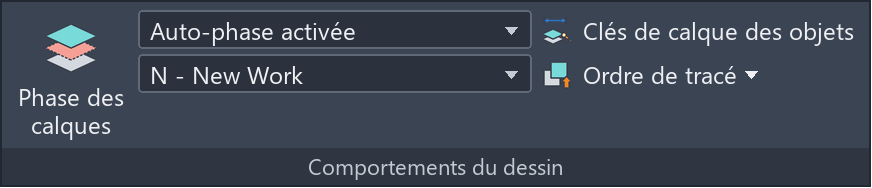
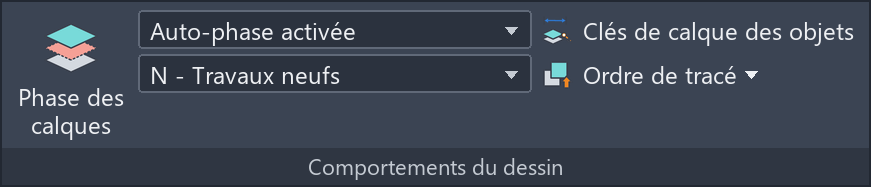
Add the French descriptions of the phases to Phase.csv
A Description.fr column after Description (the Lisp side reads the
columns by position and keeps the English ones), UTF-8 with a BOM. The
docs pictures and pages show the French phases.

Changed region(s): [[0.2167, 0.3457, 0.4025, 0.4521]]

diff --git a/Contents/Modules/Dynalisp/Docs/Layer/Dyl-LayerPhase.htm b/Contents/Modules/Dynalisp/Docs/Layer/Dyl-LayerPhase.htm
@@ -38,7 +38,7 @@
 </table>
 </div>
 <h2>Program Description</h2>
-<p>A phased layer ends with a dash and a phase code: <span class="fixw">A-Wall-Full-E</span> (existing to remain), <span class="fixw">A-Wall-Full-D</span> (existing to demolish), <span class="fixw">A-Wall-Full-N</span> (new work), <span class="fixw">A-Wall-Full-F</span> (future work)... The codes and their descriptions are read from <span class="fixw">Modules\Dynalisp\Res\AEC\Standard\Phase.csv</span>; the phase is the status field of the layer names (see <a href="../Conventions/LayerNaming.htm#status">Layer Naming</a>).</p>
+<p>A phased layer ends with a dash and a phase code: <span class="fixw">A-Wall-Full-E</span> (existing to remain), <span class="fixw">A-Wall-Full-D</span> (existing to demolish), <span class="fixw">A-Wall-Full-N</span> (new work), <span class="fixw">A-Wall-Full-F</span> (future work)... The codes and their descriptions are read from <span class="fixw">Modules\Dynalisp\Res\AEC\Standard\Phase.csv</span> (its <span class="fixw">Description.fr</span> column gives the French descriptions of the ribbon when DynALisp is in French, see <a href="../Plugins/Ribbon.htm">Ribbon</a>); the phase is the status field of the layer names (see <a href="../Conventions/LayerNaming.htm#status">Layer Naming</a>).</p>
 <p>Each drawing has an <strong>active phase</strong>, saved in the drawing. It is shown in the status bar (<span class="fixw">Phase: N - New Work [Auto]</span>) and switched in one command with the <span class="fixw">PH-*</span> aliases. Switching the phase also moves the current layer to the new phase (<span class="fixw">A-Wall-Full-E</span> becomes <span class="fixw">A-Wall-Full-N</span>), and while auto-phase is on, the <a href="Dyl-LayerKeys.htm">layer keys</a> marked <em>Phased</em> give their layer in the active phase: <a href="../Draw/Dyl-QuickDraw.htm">QD-BRICK</a> draws its outline on <span class="fixw">A-Detl-Medm-E</span> and its hatch on <span class="fixw">A-Detl-Patt-E</span> in existing.</p>
 <p>With <strong>auto-phase</strong> on, every object created by a command goes to the active phase: a copy of an existing wall on <span class="fixw">A-Wall-Full-E</span> lands on <span class="fixw">A-Wall-Full-N</span> while the active phase is new work. Objects on layers without a phase are not changed, except on the layers of the layer keys, which get the phase added.</p>
 <h2>Ribbon</h2>

diff --git a/Contents/Modules/Dynalisp/Docs/Plugins/Ribbon.fr.htm b/Contents/Modules/Dynalisp/Docs/Plugins/Ribbon.fr.htm
@@ -127,7 +127,7 @@
 <div class="spacedbullets">
 <ul>
 <li><span class="fixw">Installer\Ribbon\BuildRibbon.py</span> écrit <span class="fixw">DynALisp.cuix</span> à partir de <span class="fixw">Installer\Ribbon\Ribbon.csv</span> (les groupes de fonctions et les boutons), de <span class="fixw">RibbonIcons.py</span> (les icônes) et de <span class="fixw">Resources\StartupSuite.csv</span> (les noms, descriptions et commandes enfants). Il signale une commande principale absente du ruban ou sans icône. <span class="fixw">--sheet &lt;fichier.png&gt;</span> dessine chaque icône sur le ruban clair et le ruban foncé.</li>
-<li>Les textes de l'onglet en français sont dans <span class="fixw">Installer\Ribbon\Ribbon.fr.csv</span> (un groupe de fonctions, une commande ou un élément de la galerie Dessin rapide, son nom et son info-bulle); le script les écrit par l'identifiant de chaque élément dans <span class="fixw">Resources\DynALisp.Ribbon.fr.csv</span>, que lit le module d'extension, et signale un texte manquant. Les descriptions des phases viennent de <span class="fixw">Phase.csv</span>, en anglais seulement.</li>
+<li>Les textes de l'onglet en français sont dans <span class="fixw">Installer\Ribbon\Ribbon.fr.csv</span> (un groupe de fonctions, une commande ou un élément de la galerie Dessin rapide, son nom et son info-bulle); le script les écrit par l'identifiant de chaque élément dans <span class="fixw">Resources\DynALisp.Ribbon.fr.csv</span>, que lit le module d'extension, et signale un texte manquant. Les descriptions des phases viennent de la colonne <span class="fixw">Description.fr</span> de <span class="fixw">Phase.csv</span>.</li>
 <li>Les listes déroulantes se compilent avec <span class="fixw">dotnet build Installer\Ribbon\Plugin -c Release</span>, AutoCAD fermé.</li>
 <li>La même exécution dessine les images de cette page à partir des mêmes groupes de fonctions et icônes (<span class="fixw">Installer\Ribbon\RibbonPanels.py</span>, dans <span class="fixw">Docs\Plugins\Ribbon</span>) et écrit sa section Groupes de fonctions, en anglais et en français : elles suivent le ruban, sans capture d'écran à faire. <span class="fixw">--pictures</span> ne dessine qu'elles.</li>
 <li>Redémarrez AutoCAD pour voir le nouveau ruban.</li>

diff --git a/Installer/Ribbon/RibbonPanels.py b/Installer/Ribbon/RibbonPanels.py
@@ -51,14 +51,14 @@ THEMES = {
 
 # The drop-downs of DynALisp.Ribbon.dll, after the button of their tool: (label, value shown).
 # In each language of the plugin (Plugin\Translations.cs); the phases are the descriptions of
-# Phase.csv, which has them in English only:
+# Phase.csv (its Description.fr column in French):
 PLUGIN = {
     'DYL-LAYERPHASE': ({'en': 'Auto-phase and Phase', 'fr': 'Auto-phase et Phase'},
                        {'en': [('', 'Auto-phase On'), ('', 'N - New Work')],
-                        'fr': [('', 'Auto-phase activée'), ('', 'N - New Work')]}),
+                        'fr': [('', 'Auto-phase activée'), ('', 'N - Travaux neufs')]}),
     'PST-TRANSFERFIELD': ({'en': 'Level, From and To', 'fr': 'Niveau, De et À'},
                           {'en': [('Level:', 'Status'), ('From:', 'E - Existing To Remain'), ('To:', 'N - New Work')],
-                           'fr': [('Niveau :', 'Statut'), ('De :', 'E - Existing To Remain'), ('À :', 'N - New Work')]}),
+                           'fr': [('Niveau :', 'Statut'), ('De :', 'E - Existant à conserver'), ('À :', 'N - Travaux neufs')]}),
 }
 
 # The pages of the core commands (not in StartupSuite.csv), relative to Docs\Plugins:

diff --git a/CONVENTIONS.md b/CONVENTIONS.md
@@ -162,7 +162,7 @@ Claude commits as the work goes, without being asked; it pushes, merges into `ma
 - That button is a split button that **follows** the item picked last (`SplitFollow`, the main command first, as the Circle button of AutoCAD), never one that stays on the main command (`SplitNoFollow`): the face of a split button that does not follow shows only an image of the resources of AutoCAD, never one stored in the CUIx, so it would have no icon.
 - Items that are not commands of their own (the groups of the Quick Draw Gallery) set a Lisp variable, then run the command (`@*qd:gallerygroup*=All|Phase|Section` in the Children column): the button keeps its name (`SplitFollowStaticText`) and runs the item picked last. The command reads the variable once and clears it, so typed at the command line it opens as usual.
 - The pictures of the Ribbon docs page (`Docs\Plugins\Ribbon\*.png`, light and dark) and its Panels section are **drawn by `BuildRibbon.py`** (`Installer\Ribbon\RibbonPanels.py`) from the same panels and icons, never screenshots: they are committed with `DynALisp.cuix`. A drop-down added to the plugin is added to `PLUGIN` of `RibbonPanels.py` too.
-- The tab is **in the language of DynALisp** (*Language* in Dyl-Settings). The CUIx is in English; the texts of another language are in `Installer\Ribbon\Ribbon.<code>.csv` (`Key;Name;Description`: `Panel:<title>`, a command, or an item of a variable, `PST-QUICKDRAWGALLERY=Section`; Name is the label shown, or the full name of a child, shortened as in English). `BuildRibbon.py` writes them by the UID of each item in `Contents\Resources\DynALisp.Ribbon.<code>.csv`, warns about a text missing, and draws the pictures of the docs page in each language (`Draw-fr.png`). The plugin puts them on the tab (`Translations.cs`, `Dyl:RibbonLang`, reading `DynalispLanguage` itself when it loads, since AutoCAD may load it after the MNL of the CUIx has run, and given it by `Dyl:LangRibbon` when the language is saved), again when AutoCAD makes the ribbon again, and translates its own drop-downs (`T.S`). A new button gets its row in each `Ribbon.<code>.csv` in the same change. In an AutoCAD older than 2025 the tab stays in English. The values read from the data files (the descriptions of `Phase.csv`) stay as the files have them.
+- The tab is **in the language of DynALisp** (*Language* in Dyl-Settings). The CUIx is in English; the texts of another language are in `Installer\Ribbon\Ribbon.<code>.csv` (`Key;Name;Description`: `Panel:<title>`, a command, or an item of a variable, `PST-QUICKDRAWGALLERY=Section`; Name is the label shown, or the full name of a child, shortened as in English). `BuildRibbon.py` writes them by the UID of each item in `Contents\Resources\DynALisp.Ribbon.<code>.csv`, warns about a text missing, and draws the pictures of the docs page in each language (`Draw-fr.png`). The plugin puts them on the tab (`Translations.cs`, `Dyl:RibbonLang`, reading `DynalispLanguage` itself when it loads, since AutoCAD may load it after the MNL of the CUIx has run, and given it by `Dyl:LangRibbon` when the language is saved), again when AutoCAD makes the ribbon again, and translates its own drop-downs (`T.S`). A new button gets its row in each `Ribbon.<code>.csv` in the same change. In an AutoCAD older than 2025 the tab stays in English. A data file the plugin shows in a drop-down gives its text in another language in a `Description.<code>` column after the English `Description` (`Phase.csv`: `Description.fr`), read by `Host.Standard`, the English text where a row has none; the file is UTF-8 with a BOM, and the Lisp side, which reads its columns by position in the code page of Windows, keeps reading the English ones.
 - The icons are flat, as those of AutoCAD: dark outlines, light fills and the orange and teal of the logo, never a line alone in the dark ink (it disappears on the dark ribbon). Check them on both themes with `BuildRibbon.py --sheet`.
 - A command that works on the objects selected can be added to the **right-click menu** of those objects in `Installer\Ribbon\ContextMenus.csv` (the alias of the object menu: `OBJECT_MTEXT` for one mtext, `OBJECTS_MTEXT` for several; AutoCAD adds them to its own menu; each menu gets a `POPnnn` alias first, as those of `acad.cuix`). Its macro has no `^C^C`, which would drop the selection, and the command reads the selection first (`(ssget "_I")`). The menu of the text editor itself cannot be changed.
 - The tab fits a 1920 px screen: the tools used less often go to the slide-out of their panel (`>1` in the Stack column).
